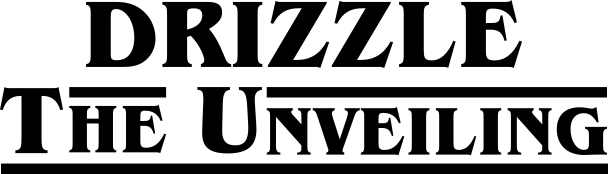
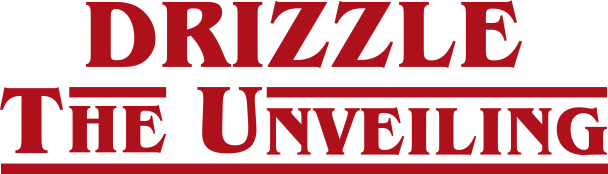
Added shifting title

diff --git a/DTU/src/main_menu/main_menu.cpp b/DTU/src/main_menu/main_menu.cpp
@@ -21,6 +21,9 @@ static surge::atom::static_image::one_buffer_data g_title_buffer{};
 // NOLINTNEXTLINE
 static surge::atom::static_image::one_draw_data g_title_draw_data{};
 
+// NOLINTNEXTLINE
+static surge::atom::text::draw_data g_text_draw_data{};
+
 // Parallax background
 static constexpr const GLsizei background_layer_count{5};
 
@@ -82,6 +85,12 @@ auto DTU::state::main_menu::load(surge::queue<surge::u32> &cmdq, float ww, float
   g_title_draw_data.region_origin = glm::vec2{0.0};
   g_title_draw_data.alpha = 0.0f;
 
+  // Options
+  g_text_draw_data.face_idx = 0;
+  g_text_draw_data.position = glm::vec2{100.0};
+  g_text_draw_data.scale = 1.0f;
+  g_text_draw_data.color = glm::vec3{175.0f / 255.0f, 17.0f / 255.0f, 28.0f / 255.0f};
+
   // First command
   cmdq.push(commands::show_title);
 
@@ -102,7 +111,9 @@ auto DTU::state::main_menu::unload(surge::queue<surge::u32> &cmdq) noexcept -> i
   return 0;
 }
 
-auto DTU::state::main_menu::draw(const shader_indices &&si, glm::mat4 &proj,
+auto DTU::state::main_menu::draw(const shader_indices &&si,
+                                 const surge::atom::text::buffer_data &tbd,
+                                 const surge::atom::text::charmap_data &tcd, glm::mat4 &proj,
                                  glm::mat4 &view) noexcept -> int {
   using namespace surge;
 
@@ -114,6 +125,9 @@ auto DTU::state::main_menu::draw(const shader_indices &&si, glm::mat4 &proj,
 
   atom::nonuniform_tiles::draw(si.nonuniform_tiles, g_background_buffer, g_background_draw_data);
   atom::static_image::draw(si.static_image, g_title_buffer, g_title_draw_data);
+
+  g_text_draw_data.projection = proj;
+  atom::text::draw(si.text, tbd, tcd, g_text_draw_data, "Hello World!");
 
   return 0;
 }
@@ -140,7 +154,7 @@ auto DTU::state::main_menu::update(surge::queue<surge::u32> &cmdq, double dt) no
 
   case commands::show_title:
     if (g_title_draw_data.alpha < 1.0f) {
-      g_title_draw_data.alpha += 0.5f * gsl::narrow_cast<float>(dt);
+      g_title_draw_data.alpha += 1.0f * gsl::narrow_cast<float>(dt);
     } else {
       g_title_draw_data.alpha = 1.0;
       cmdq.pop();
@@ -148,11 +162,12 @@ auto DTU::state::main_menu::update(surge::queue<surge::u32> &cmdq, double dt) no
     break;
 
   case commands::shift_title:
-    if (g_title_draw_data.pos[1] < 0.0f) {
-      g_title_draw_data.pos[1] -= 0.5f * gsl::narrow_cast<float>(dt);
+    if (g_title_draw_data.pos[1] > 0.0f) {
+      g_title_draw_data.pos[1] -= 1000.0f * gsl::narrow_cast<float>(dt);
     } else {
       g_title_draw_data.pos[1] = 0.0;
       cmdq.pop();
+      cmdq.push(commands::show_menu);
     }
     break;
 
@@ -163,10 +178,10 @@ auto DTU::state::main_menu::update(surge::queue<surge::u32> &cmdq, double dt) no
   return 0;
 }
 
-void DTU::state::main_menu::keyboard_event(surge::queue<surge::u32> &cmdq, int key, int, int action,
-                                           int) noexcept {
+void DTU::state::main_menu::keyboard_event(surge::queue<surge::u32> &cmdq, int /*key*/, int,
+                                           int action, int) noexcept {
   static bool title_shifted{false};
-  if (key == GLFW_KEY_ENTER && action == GLFW_PRESS && !title_shifted) {
+  if (action == GLFW_PRESS && !title_shifted) {
     cmdq.push(commands::shift_title);
     title_shifted = true;
   }

diff --git a/DTU/src/DTU.cpp b/DTU/src/DTU.cpp
@@ -4,9 +4,9 @@
 
 // clang-format off
 #include "player/renderer.hpp"
-#include "player/nonuniform_tiles.hpp"
 #include "player/error_types.hpp"
 #include "player/logging.hpp"
+#include "player/text.hpp"
 // clang-format on
 
 #include "main_menu/main_menu.hpp"
@@ -23,6 +23,15 @@ static GLuint g_nonuniform_tile_shader{0};
 
 // NOLINTNEXTLINE
 static GLuint g_image_shader{0};
+
+// NOLINTNEXTLINE
+static GLuint g_text_shader{0};
+
+// NOLINTNEXTLINE
+static surge::atom::text::buffer_data g_text_buffer{};
+
+// NOLINTNEXTLINE
+static surge::atom::text::charmap_data g_text_charmap{};
 
 // NOLINTNEXTLINE
 static DTU::state_id g_current_state_id{DTU::state_id::main_menu};
@@ -60,6 +69,28 @@ extern "C" SURGE_MODULE_EXPORT auto on_load(GLFWwindow *window) noexcept -> int 
   }
   g_image_shader = *image_shader;
 
+  // Load text rendering shader
+  const auto text_shader{
+      surge::renderer::create_shader_program("shaders/text.vert", "shaders/text.frag")};
+  if (!text_shader) {
+    return static_cast<int>(text_shader.error());
+  }
+  g_text_shader = *text_shader;
+
+  // Load font cache
+  surge::atom::text::font_name_vec_t fonts{"resources/fonts/ITC_Benguiat_Bold.ttf"};
+  const auto text_buffer{surge::atom::text::create(fonts)};
+  if (!text_buffer) {
+    return static_cast<int>(text_buffer.error());
+  }
+  g_text_buffer = *text_buffer;
+
+  const auto text_charmap{surge::atom::text::create_charmap(g_text_buffer, 50)};
+  if (!text_charmap) {
+    return static_cast<int>(text_buffer.error());
+  }
+  g_text_charmap = *text_charmap;
+
   return DTU::state::main_menu::load(g_command_queue, ww, wh);
 }
 
@@ -71,6 +102,10 @@ extern "C" SURGE_MODULE_EXPORT auto on_unload(GLFWwindow *window) noexcept -> in
 
   surge::renderer::cleanup_shader_program(g_nonuniform_tile_shader);
   surge::renderer::cleanup_shader_program(g_image_shader);
+
+  surge::atom::text::destroy_charmap(g_text_charmap);
+  surge::atom::text::terminate(g_text_buffer);
+  surge::renderer::cleanup_shader_program(g_text_shader);
 
   switch (g_current_state_id) {
   case DTU::state_id::main_menu:
@@ -84,8 +119,9 @@ extern "C" SURGE_MODULE_EXPORT auto draw() noexcept -> int {
   switch (g_current_state_id) {
   case DTU::state_id::main_menu:
     return DTU::state::main_menu::draw(
-        DTU::state::main_menu::shader_indices{g_nonuniform_tile_shader, g_image_shader},
-        g_projection, g_view);
+        DTU::state::main_menu::shader_indices{g_nonuniform_tile_shader, g_image_shader,
+                                              g_text_shader},
+        g_text_buffer, g_text_charmap, g_projection, g_view);
   default:
     break;
   }

diff --git a/DTU/include/main_menu/main_menu.hpp b/DTU/include/main_menu/main_menu.hpp
@@ -2,6 +2,7 @@
 #define SURGE_DTU_STATE_MAIN_MENU
 
 #include "player/container_types.hpp"
+#include "player/text.hpp"
 
 #include <glm/glm.hpp>
 
@@ -10,14 +11,17 @@ namespace DTU::state::main_menu {
 struct shader_indices {
   unsigned int nonuniform_tiles;
   unsigned int static_image;
+  unsigned int text;
 };
 
-enum commands : surge::u32 { idle, show_title, shift_title, show_menu };
+enum commands : surge::u32 { show_title, shift_title, show_menu };
 
 auto load(surge::queue<surge::u32> &cmdq, float ww, float wh) noexcept -> int;
 auto unload(surge::queue<surge::u32> &cmdq) noexcept -> int;
 
-auto draw(const shader_indices &&si, glm::mat4 &proj, glm::mat4 &view) noexcept -> int;
+auto draw(const shader_indices &&si, const surge::atom::text::buffer_data &tbd,
+          const surge::atom::text::charmap_data &tcd, glm::mat4 &proj, glm::mat4 &view) noexcept
+    -> int;
 auto update(surge::queue<surge::u32> &cmdq, double dt) noexcept -> int;
 
 void keyboard_event(surge::queue<surge::u32> &cmdq, int key, int scancode, int action,
